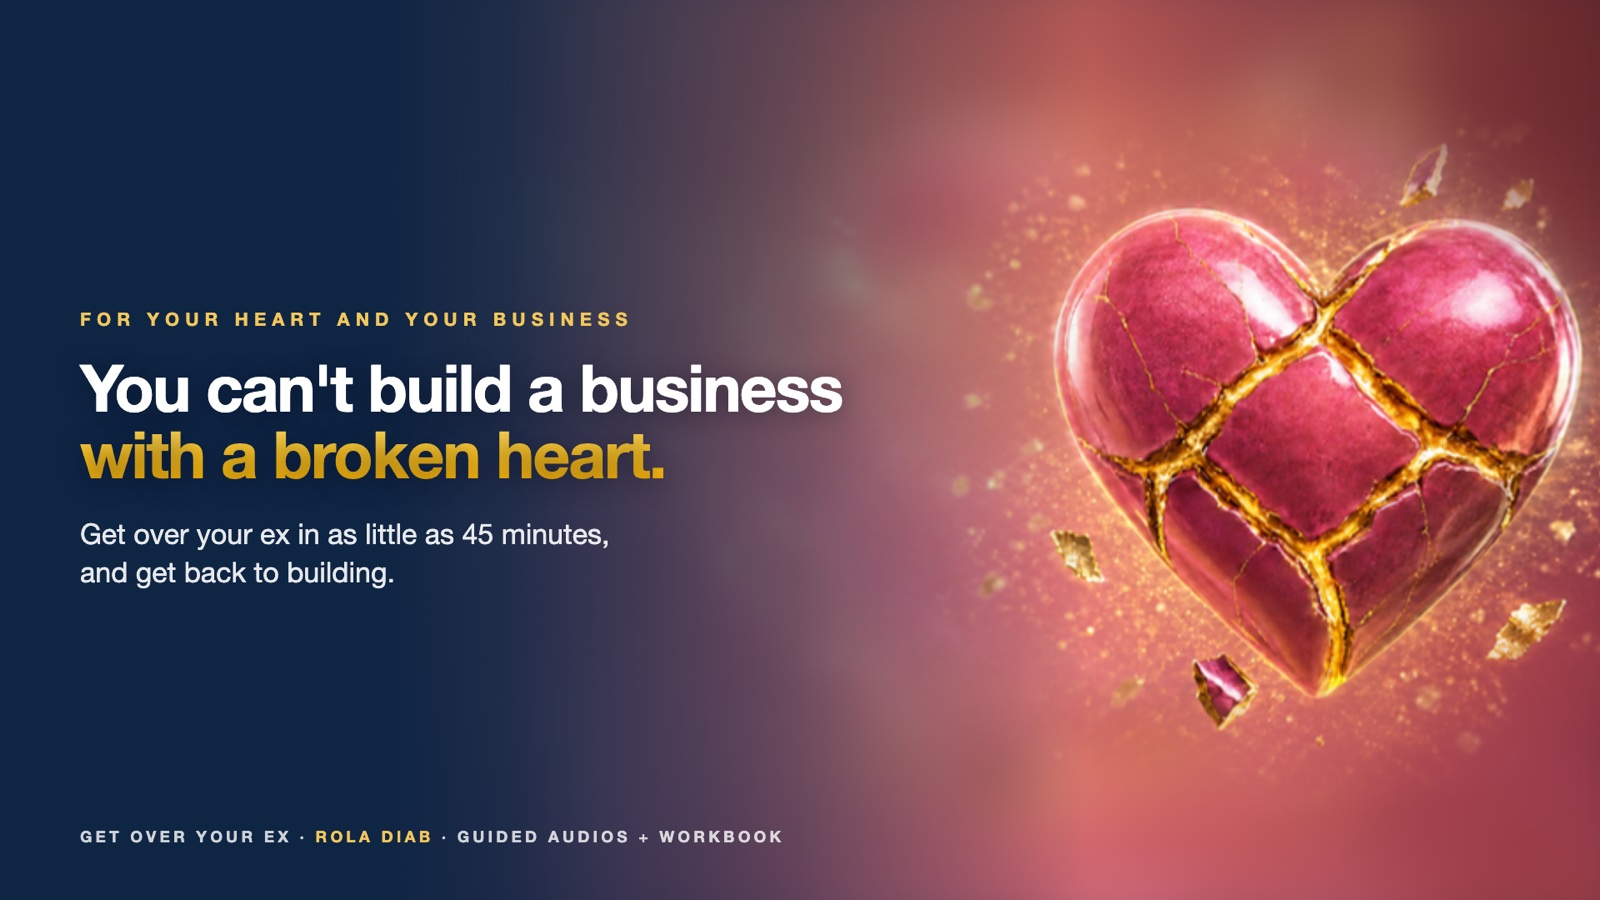
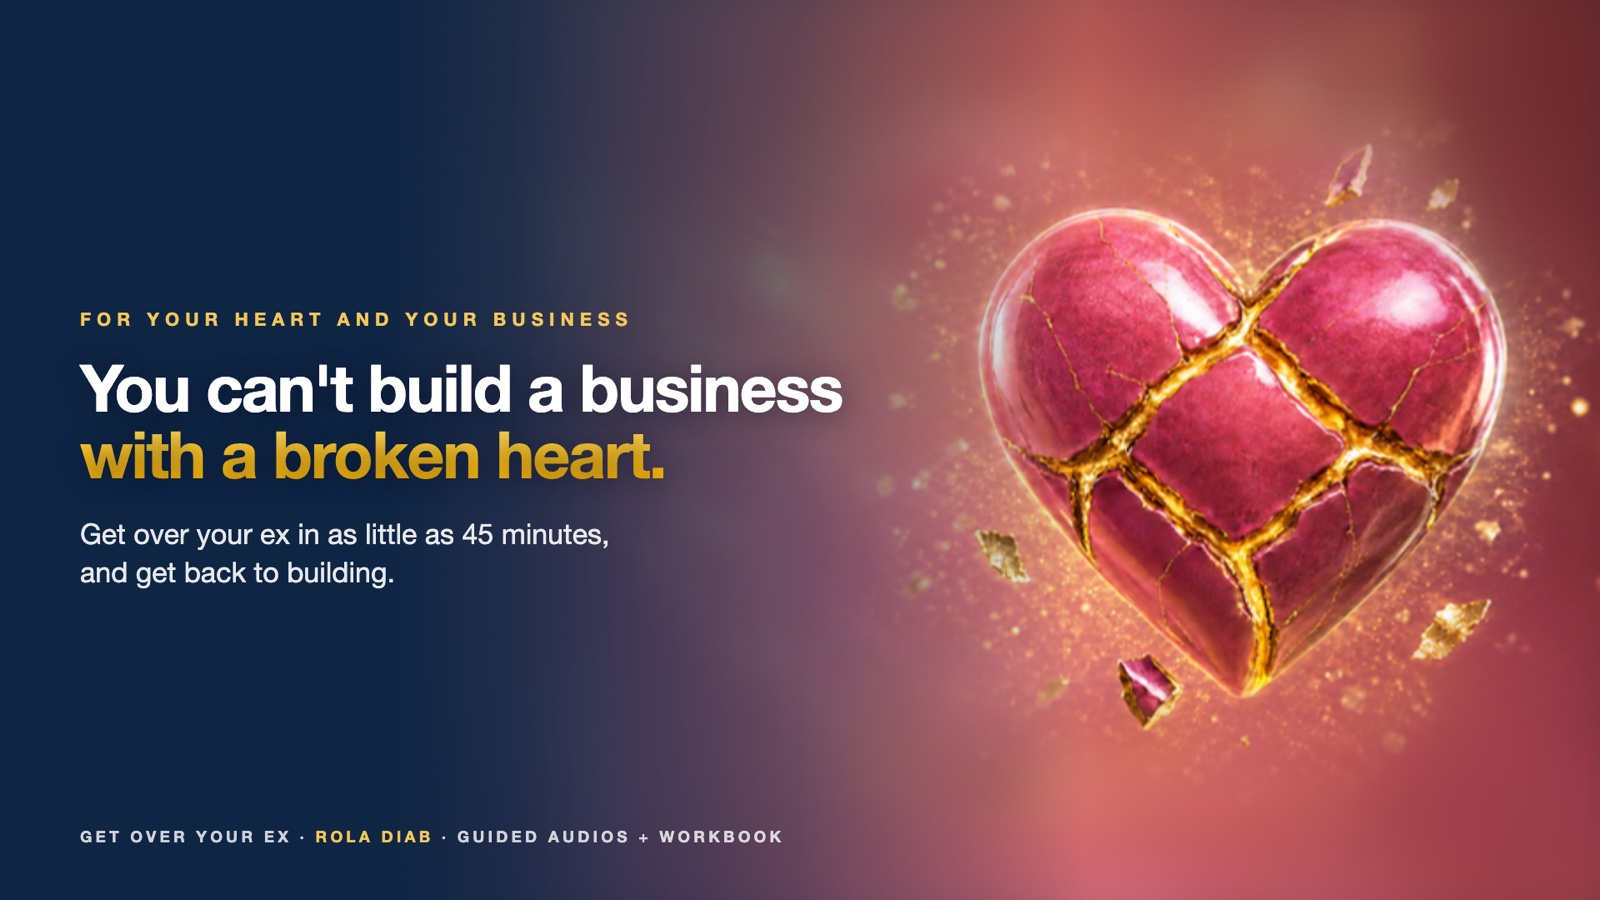
Get Over Your Ex cover: heart nudged left

Changed region(s): [[0.5625, 0.1556, 1.0, 0.8089]]

diff --git a/products/index.html b/products/index.html
@@ -47,7 +47,7 @@
         </div>
       </article>
       <article class="product-card">
-        <img src="/products/get-over-your-ex.jpg?v=4" alt="You can't build a business with a broken heart. Get over your ex in as little as 45 minutes." width="1600" height="900">
+        <img src="/products/get-over-your-ex.jpg?v=5" alt="You can't build a business with a broken heart. Get over your ex in as little as 45 minutes." width="1600" height="900">
         <div class="product-body">
           <p class="num">Guided audios + workbook &nbsp;·&nbsp; as little as 45 minutes</p>
           <h3>Get Over Your Ex</h3>
